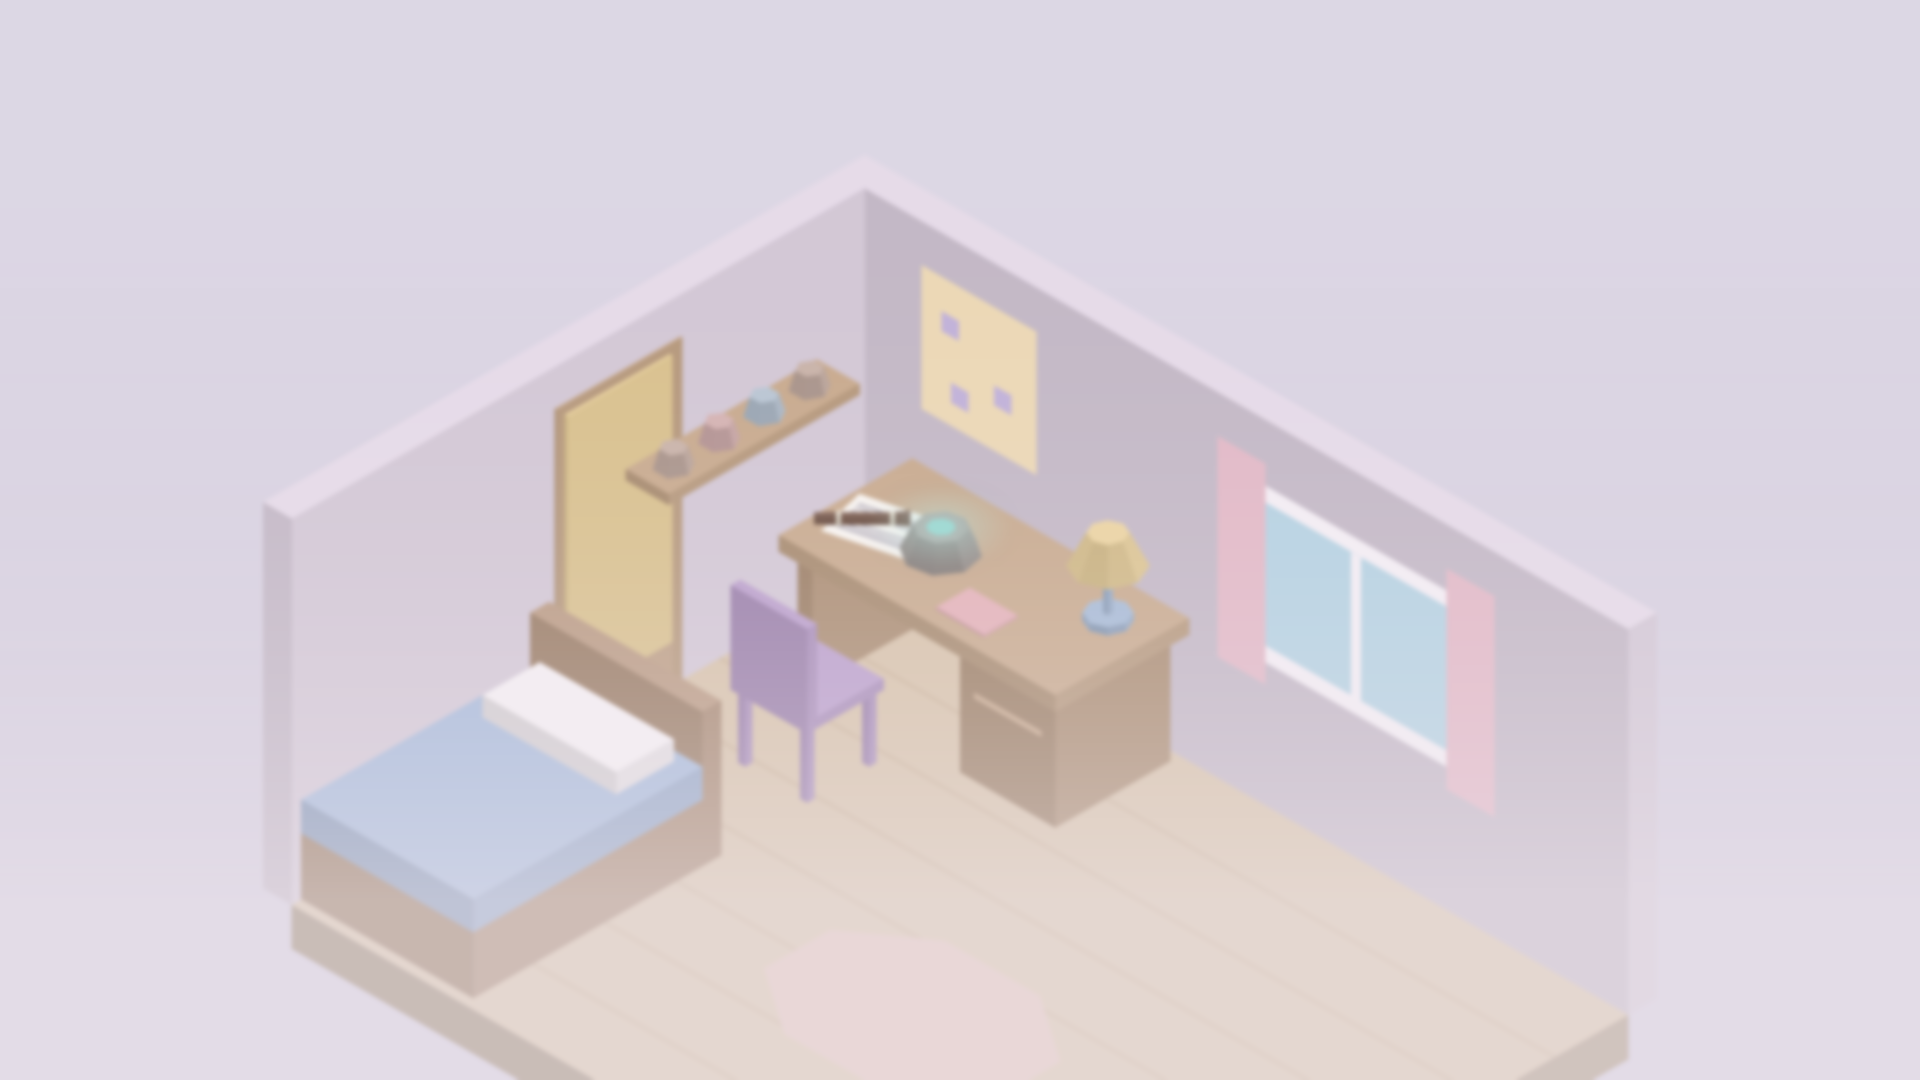
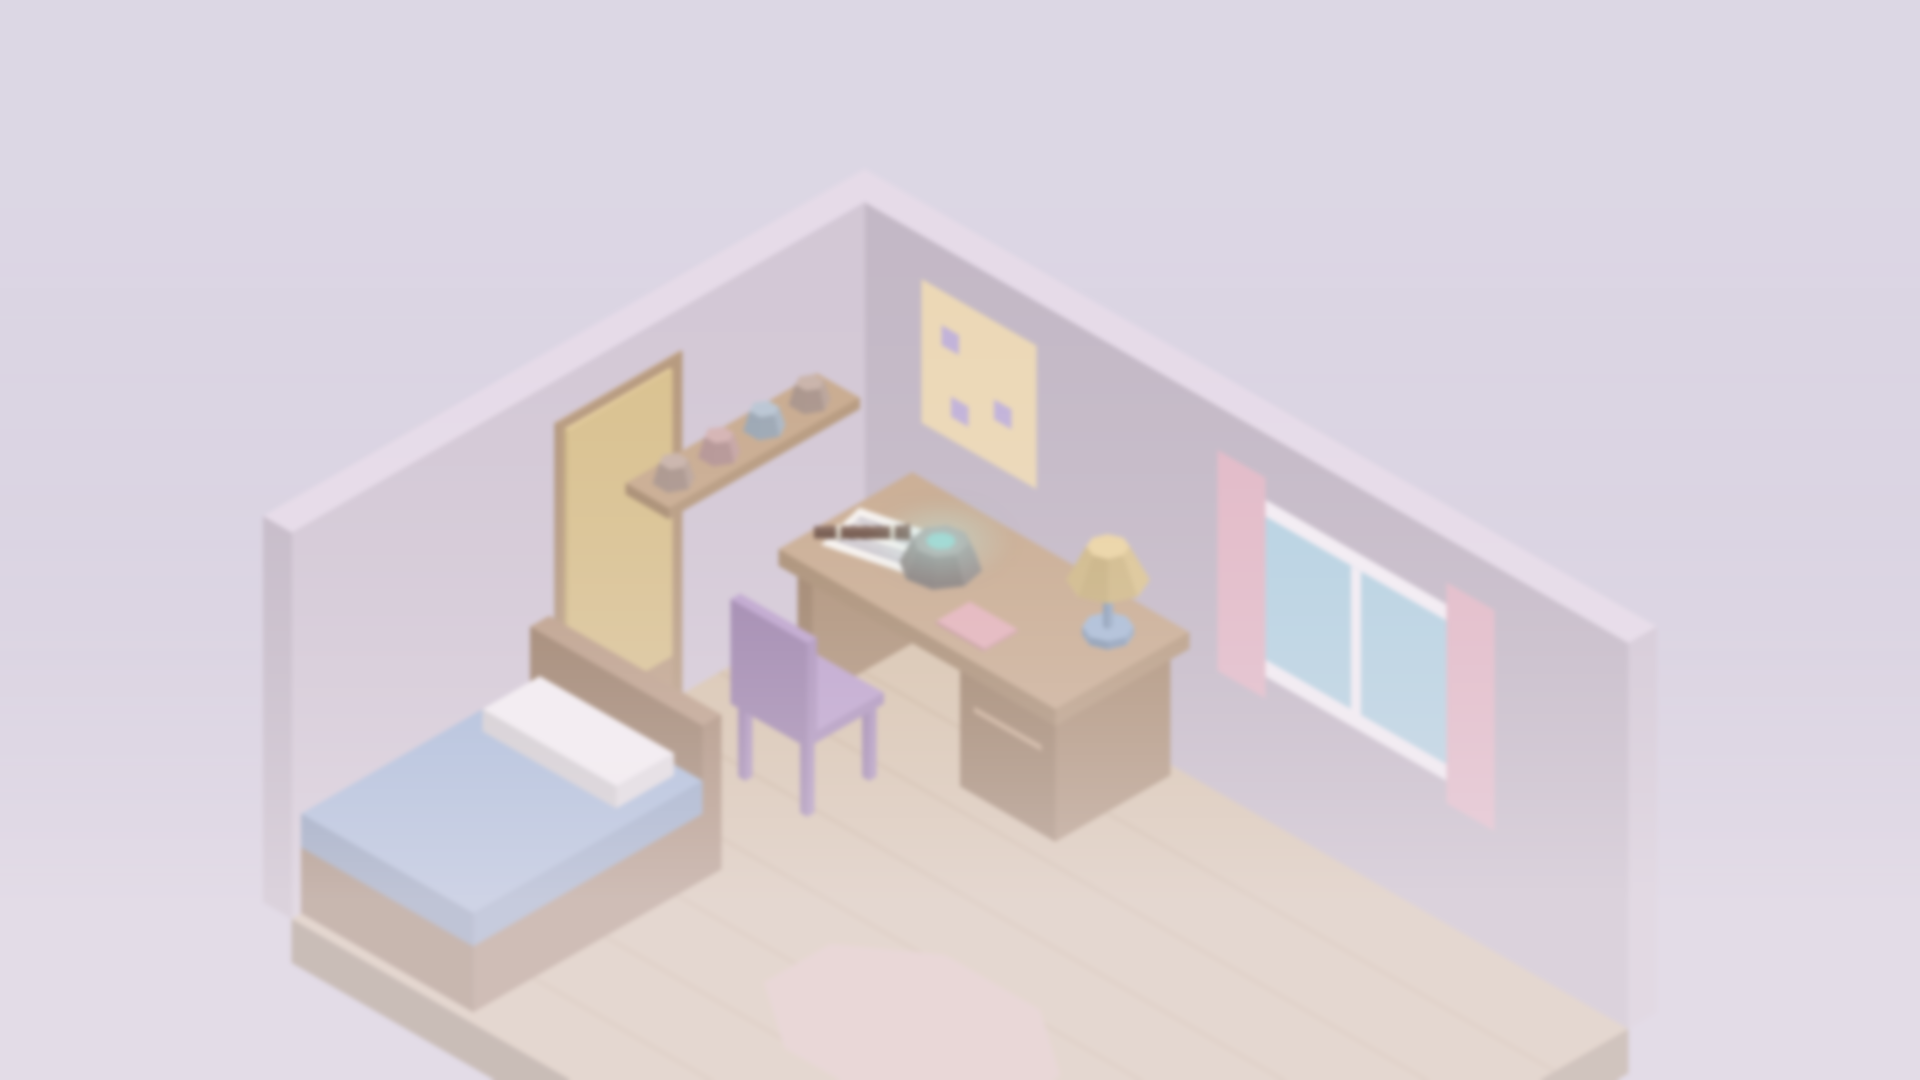
Align recorder bedroom exports with the shared room camera

diff --git a/art/tools/storybook.ts b/art/tools/storybook.ts
@@ -431,14 +431,11 @@ interface RoomOptions {
   moon?: boolean;
   // Needle's recorder on its song sheet at the desk's left end.
   recorder?: boolean;
-  // Canvas rows to raise the whole room by, so its subject band ends by row 293.
-  lift?: number;
 }
 
 // Design px per logical canvas px (the canvas is the design frame at 360 / 390).
 const DESIGN_PER_LOGICAL = DESIGN.height / 360;
-// Needle's scenes rise 7 rows, so the desk's recorder and rock and the stage end by row 293 and
-// clear the strip above a story panel at Gameplay's longest page.
+// The concert hall rises 7 rows so the stage ends by row 293 above the story panel.
 const NEEDLE_LIFT = 7;
 
 // The doorway in the left wall of Ada's room, beside the bed's head, in model units: Dad looks
@@ -464,12 +461,9 @@ function recorder(
   s.solid(rod(at(1.2), at(1.42), r * 1.05, 8, r * 1.3), P.recorder!, 2, key + 0.004);
 }
 
-function room(
-  P: Palette,
-  { glow, moon, recorder: withRecorder, lift = 0 }: RoomOptions = {},
-): Scene {
+function room(P: Palette, { glow, moon, recorder: withRecorder }: RoomOptions = {}): Scene {
   const [nx, ny, wall] = [16, 12, 7];
-  const s = fitted(nx, ny, wall, 12 - lift * DESIGN_PER_LOGICAL);
+  const s = fitted(nx, ny, wall);
   s.solid(box(0, nx, 0, ny, -0.8, 0), P.slab!, 0, 0);
   const planks: Decal[] = [1, 2, 3, 4, 5, 6, 7].map((j) => [
     onZ(0.001, 0, nx, j * 1.5, j * 1.5 + 0.08),
@@ -1597,14 +1591,14 @@ export const BACKGROUNDS: readonly Background[] = [
   {
     id: "story-ada-room-recorder",
     palette: ROOM,
-    build: (P) => room(P, { glow: glowAmount(0), lift: NEEDLE_LIFT, recorder: true }),
-    subject: band(248, 293),
+    build: (P) => room(P, { glow: glowAmount(0), recorder: true }),
+    subject: DESK_ROCK,
   },
   ...GLOW.map((glow, i) => ({
     id: `story-ada-room-recorder-glow-${i + 1}`,
     palette: ROOM,
-    build: (P: Palette) => room(P, { glow: glowAmount(glow), lift: NEEDLE_LIFT, recorder: true }),
-    subject: band(248, 293),
+    build: (P: Palette) => room(P, { glow: glowAmount(glow), recorder: true }),
+    subject: DESK_ROCK,
   })),
   // Needle's closing: the stage and its spotlight.
   {

diff --git a/art/tools/storybook-check.ts b/art/tools/storybook-check.ts
@@ -1,0 +1,25 @@
+import assert from "node:assert/strict";
+import { readFileSync } from "node:fs";
+import test from "node:test";
+
+import { BACKGROUNDS } from "./storybook.ts";
+
+test("every bedroom variant shares the neutral room camera", () => {
+  const neutral = BACKGROUNDS.find(({ id }) => id === "story-ada-room")!;
+  const reference = neutral.build(neutral.palette);
+  const bedrooms = BACKGROUNDS.filter(({ id }) => id.startsWith("story-ada-room"));
+  assert.equal(bedrooms.length, 11);
+  for (const { build, id, palette } of bedrooms) {
+    const scene = build(palette);
+    assert.deepEqual([scene.k, scene.pivot], [reference.k, reference.pivot], id);
+  }
+});
+
+test("recorder entries and their alias publish the neutral room subject band", () => {
+  const { assets } = JSON.parse(
+    readFileSync(new URL("../../public/art/manifest.json", import.meta.url), "utf8"),
+  ) as { assets: { id: string; subject?: { top: number; bottom: number } }[] };
+  const recorder = assets.filter(({ id }) => id.startsWith("story-ada-room-recorder"));
+  assert.equal(recorder.length, 5);
+  for (const { id, subject } of recorder) assert.deepEqual(subject, { top: 255, bottom: 300 }, id);
+});

diff --git a/art/storybook.md b/art/storybook.md
@@ -88,8 +88,8 @@ Full palettes are in the generator. Colours are before treatment d.
   its song sheet at the desk's free left end, left of the rock, so the rock
   stays the brightest point. It closes in `story-concert-hall`, the stage seen
   from the hall, with the spotlight on the empty stage. The recorder room draws Ada's
-  room 7 rows higher and the concert hall rises 7 rows too, so both subjects end
-  by row 293.
+  room at the same camera as every other bedroom variant. The concert hall
+  rises 7 rows so its subject ends by row 293.
 - Andromeda opens, resolves and closes in Grandma's garden with a potting table
   on the lawn by the house and a green tray of eight terracotta pots on it.
   `story-grandma-garden-spilled` (the opening, its branch pages and the
@@ -188,7 +188,7 @@ at most the panel top + 180; at 720x405 the limit is the panel top + 135.
 | `story-ada-room-morning`         | 255..348 | The empty bed and the rock on the desk                 |
 | `aboard`                         | 172..256 | The ship's canopy and the hull round it                |
 | `aboard-emergency`               | 172..256 | The ship's canopy and the hull round it                |
-| `story-ada-room-recorder`        | 248..293 | The rock and the recorder on the desk                  |
+| `story-ada-room-recorder`        | 255..300 | The rock and the recorder on the desk                  |
 | `story-concert-hall`             | 188..293 | The stage, piano and spotlight                         |
 | `story-grandma-garden-spilled`   | 176..285 | The seedling tray on the potting table and the beds    |
 | `story-grandma-garden-replanted` | 176..285 | The seedling tray on the potting table and the beds    |
@@ -225,20 +225,17 @@ characters, the heading and two choices).
 | `story-park`, visit, chapter 3 resolution                           | y -180*: 40..105, top 143       | y -176: 44..109, top 153        | y -135*: 85..150, top 201       |
 | `story-ada-room-night`, jump home                                   | y -146.5: 103.5..153.5, top 257 | y -146.5: 103.5..153.5, top 257 | y -122.5: 127.5..177.5, top 305 |
 | `story-ada-room-morning`, jump home                                 | y -173: 82..175, top 257        | y -173: 82..175, top 257        | y -135*: 120..213, top 305      |
-| `story-ada-room-recorder`, new chapter at the limit                 | y -180*: 68..113, top 113       | y -180*: 68..113, top 113       | y -135*: 113..158, top 161      |
 | `story-concert-hall`, new chapter at the limit                      | y -180*: 8..113, top 113        | y -180*: 8..113, top 113        | y -135*: 53..158, top 161       |
 | `story-grandma-garden-spilled`, new chapter at the limit            | y -174: 2..111, top 113         | y -174: 2..111, top 113         | y -135*: 41..150, top 161       |
 | `story-grandma-garden-replanted`, new chapter at the limit          | y -174: 2..111, top 113         | y -174: 2..111, top 113         | y -135*: 41..150, top 161       |
 
 An [environment alias](#environment-aliases) carries its base's band and
-takes its base's placement. Existing subject bands remain unchanged to keep
-story-run anchors stable.
+takes its base's placement. Bedroom variants share the same model scale and camera origin. Recorder
+variants add desk props without shifting the room.
 
-Every band in the current runs clears its panel at these views, the aboard
-band under Astra's three questions included: its 84 rows fit the 93-row strip.
-At Gameplay's limit the four new backgrounds clear too: Needle's recorder room
-and concert hall rise 7 rows so their bands end by row 293, the lowest visible
-row under a 220-character page at 360-high views.
+The aboard band under Astra's three questions spans 84 rows in a 93-row strip.
+The concert hall rises 7 rows so its subject ends by row 293. Bedroom variants
+keep one camera and use the runtime's shared bedroom placement.
 
 ## Environment aliases
 
